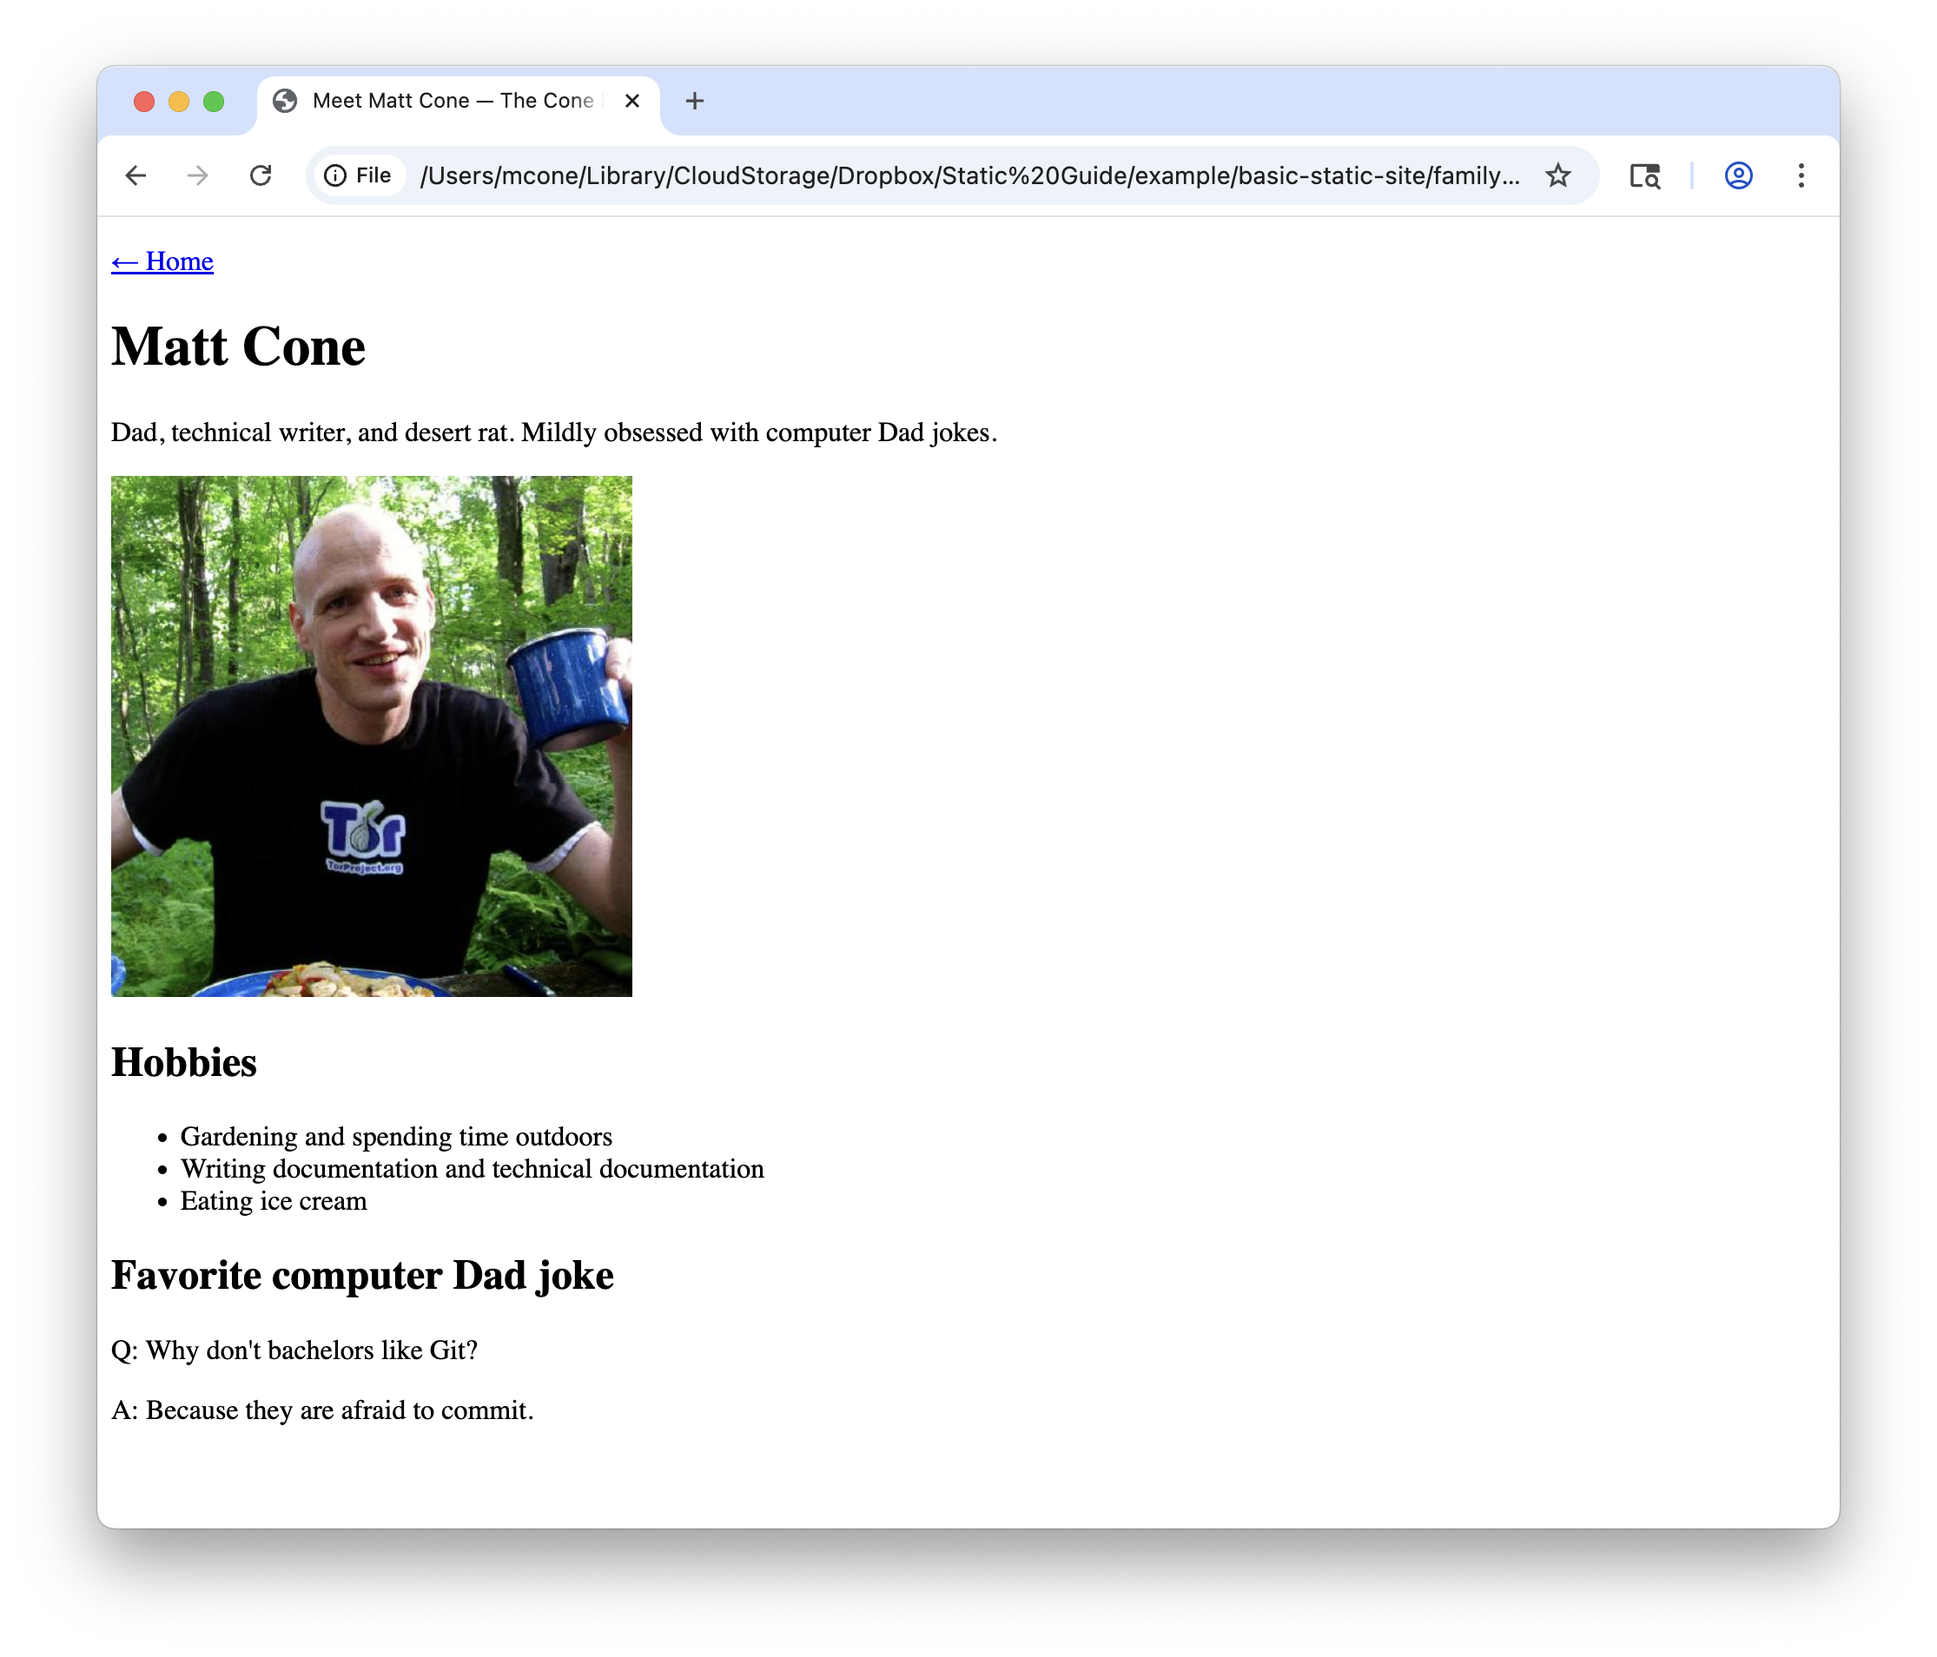
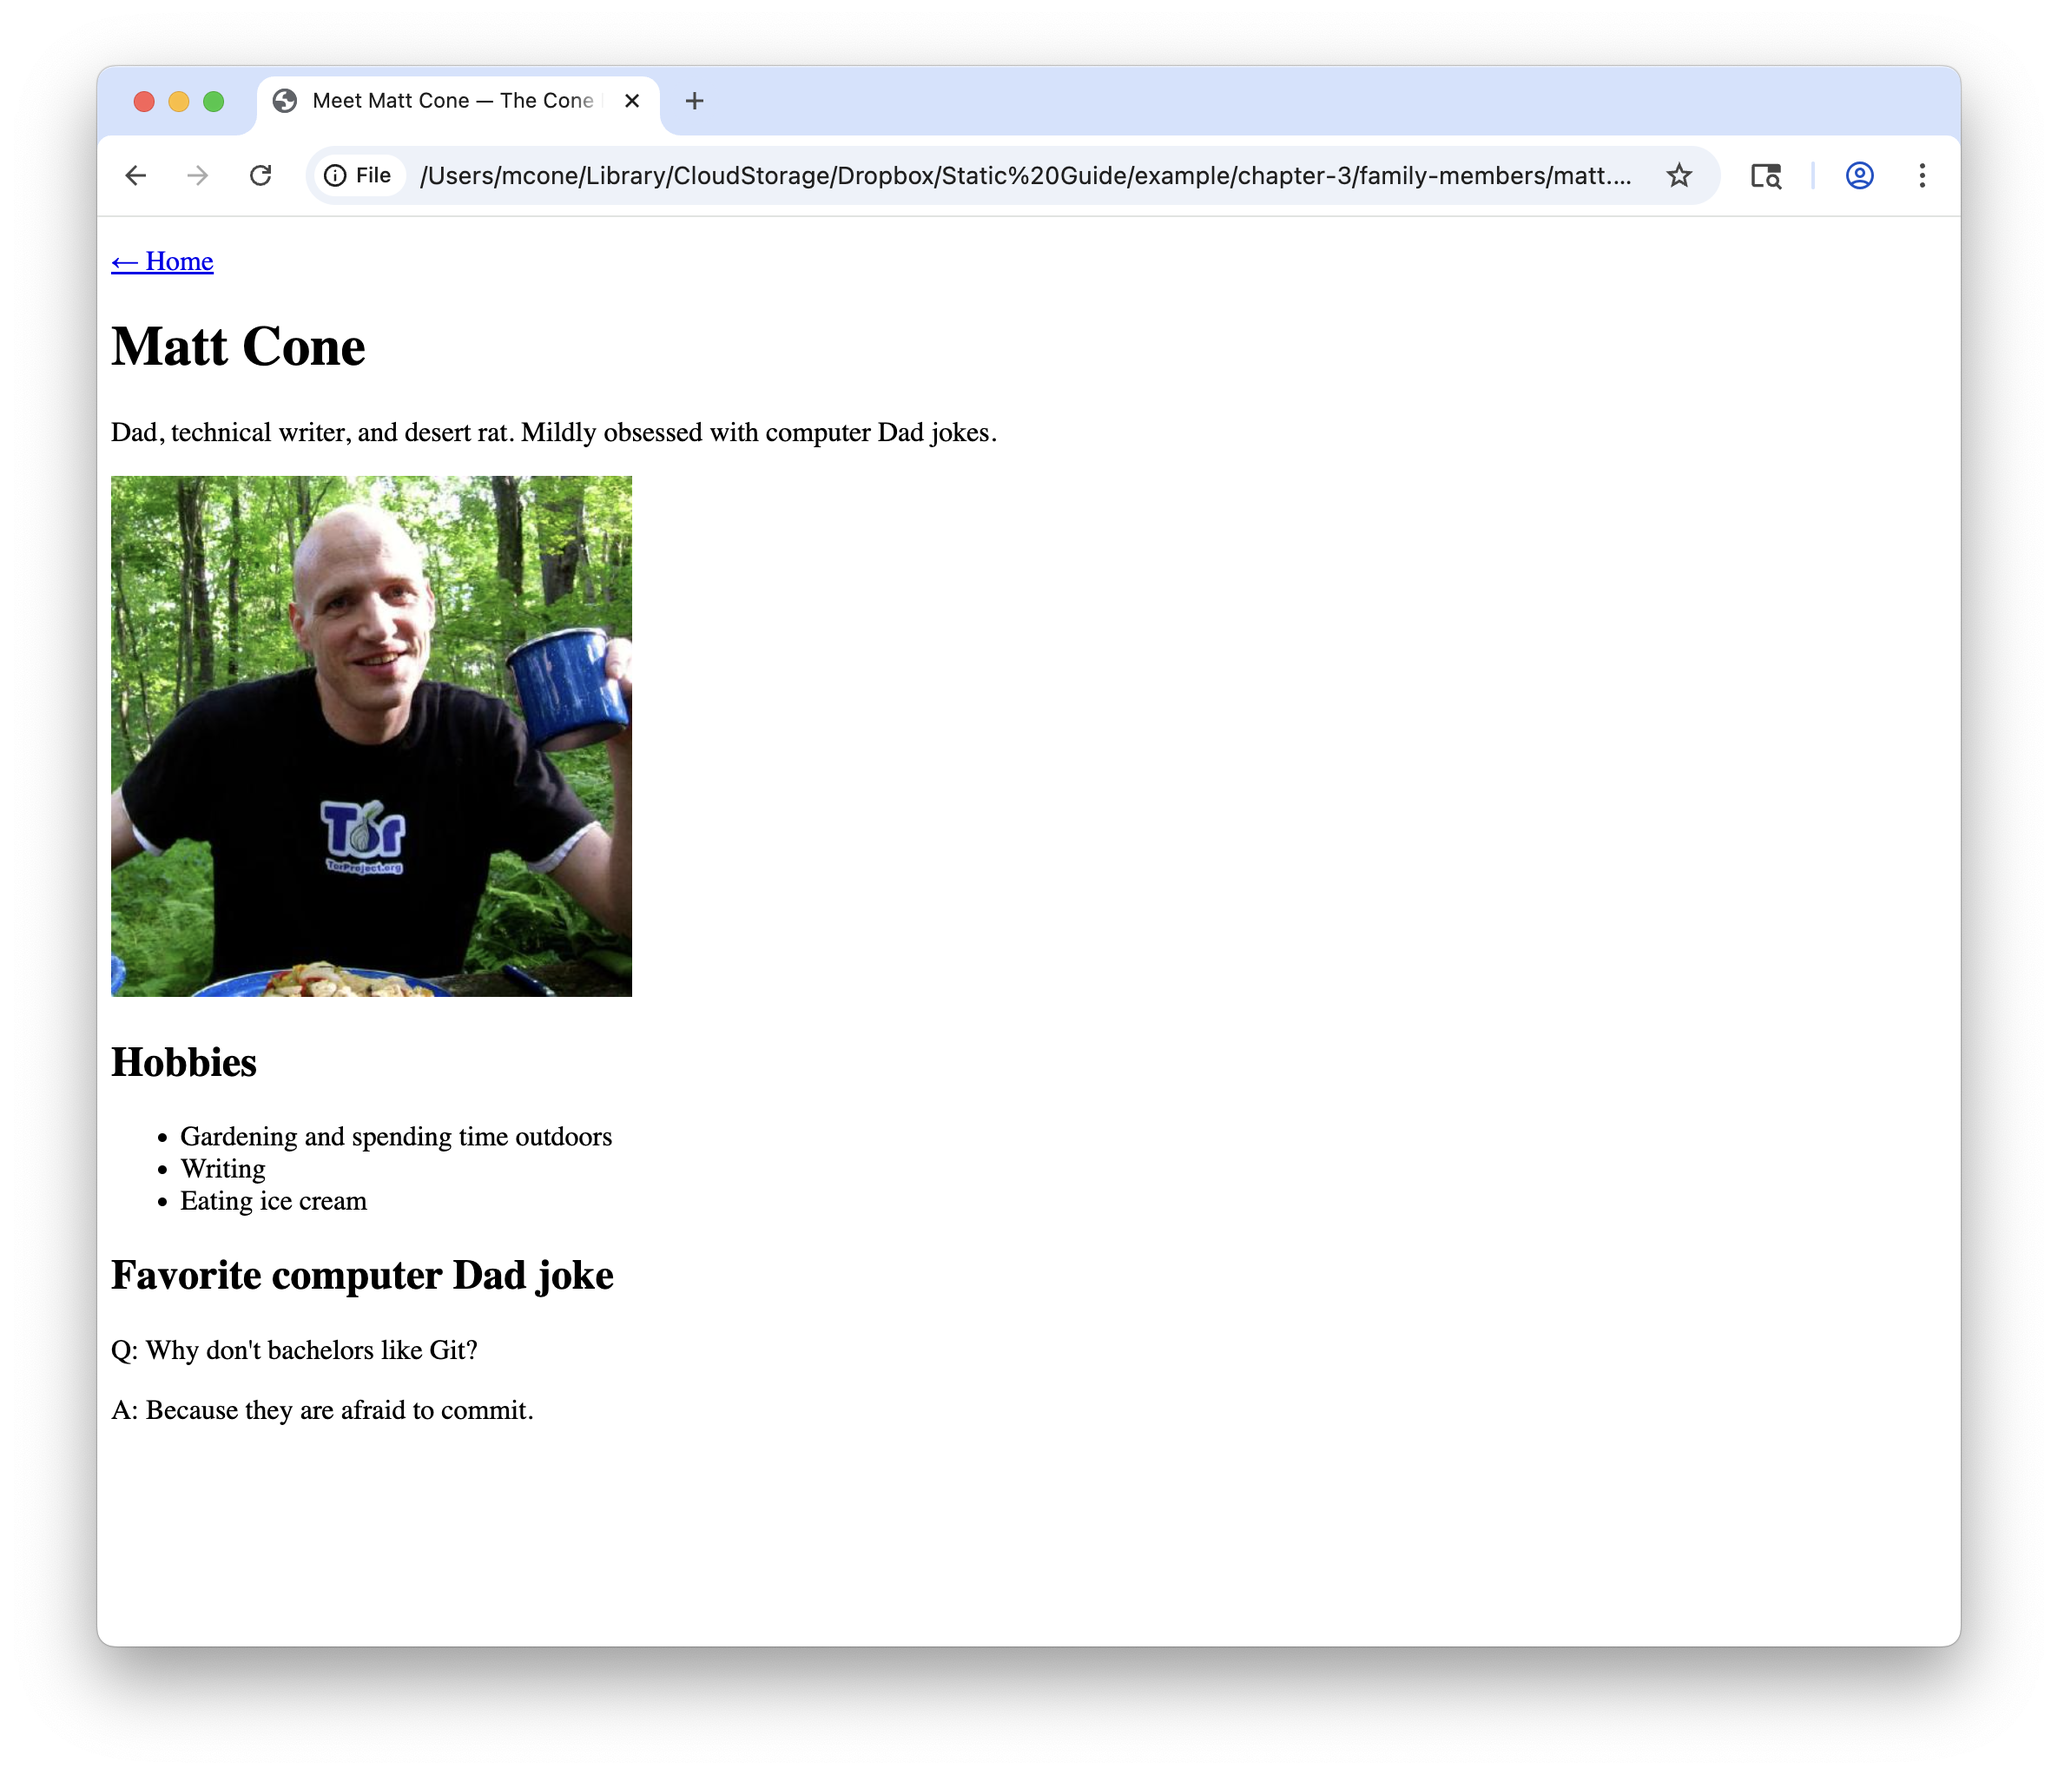
Update maybe typo in hobbies

Changed region(s): [[0.0309, 0.0309, 0.9592, 0.9277]]

diff --git a/content/chapter-3-building-a-basic-static-website.md b/content/chapter-3-building-a-basic-static-website.md
@@ -2,7 +2,7 @@
 title: "Building a Basic Static Website"
 chapter: "Chapter 3"
 description: "Chapter 3 of the Static Site Guide, a book that explains how to build a static website from scratch."
-date: 2025-06-01
+date: 2025-06-27
 previous: 
   name: "Chapter 2"
   link: "/chapter-2-publishing-your-web-page/"
@@ -376,7 +376,7 @@ Create the new directory called `family-members`, and then create the `matt.html
         <h2>Hobbies</h2>
         <ul>
           <li>Gardening and spending time outdoors</li>
-          <li>Writing documentation and technical documentation</li>
+          <li>Writing</li>
           <li>Eating ice cream</li>
         </ul>
 
@@ -464,7 +464,7 @@ Now we can add a link to the homepage from the `matt.html` page:
         <h2>Hobbies</h2>
         <ul>
           <li>Gardening and spending time outdoors</li>
-          <li>Writing documentation and technical documentation</li>
+          <li>Writing</li>
           <li>Eating ice cream</li>
         </ul>
 
